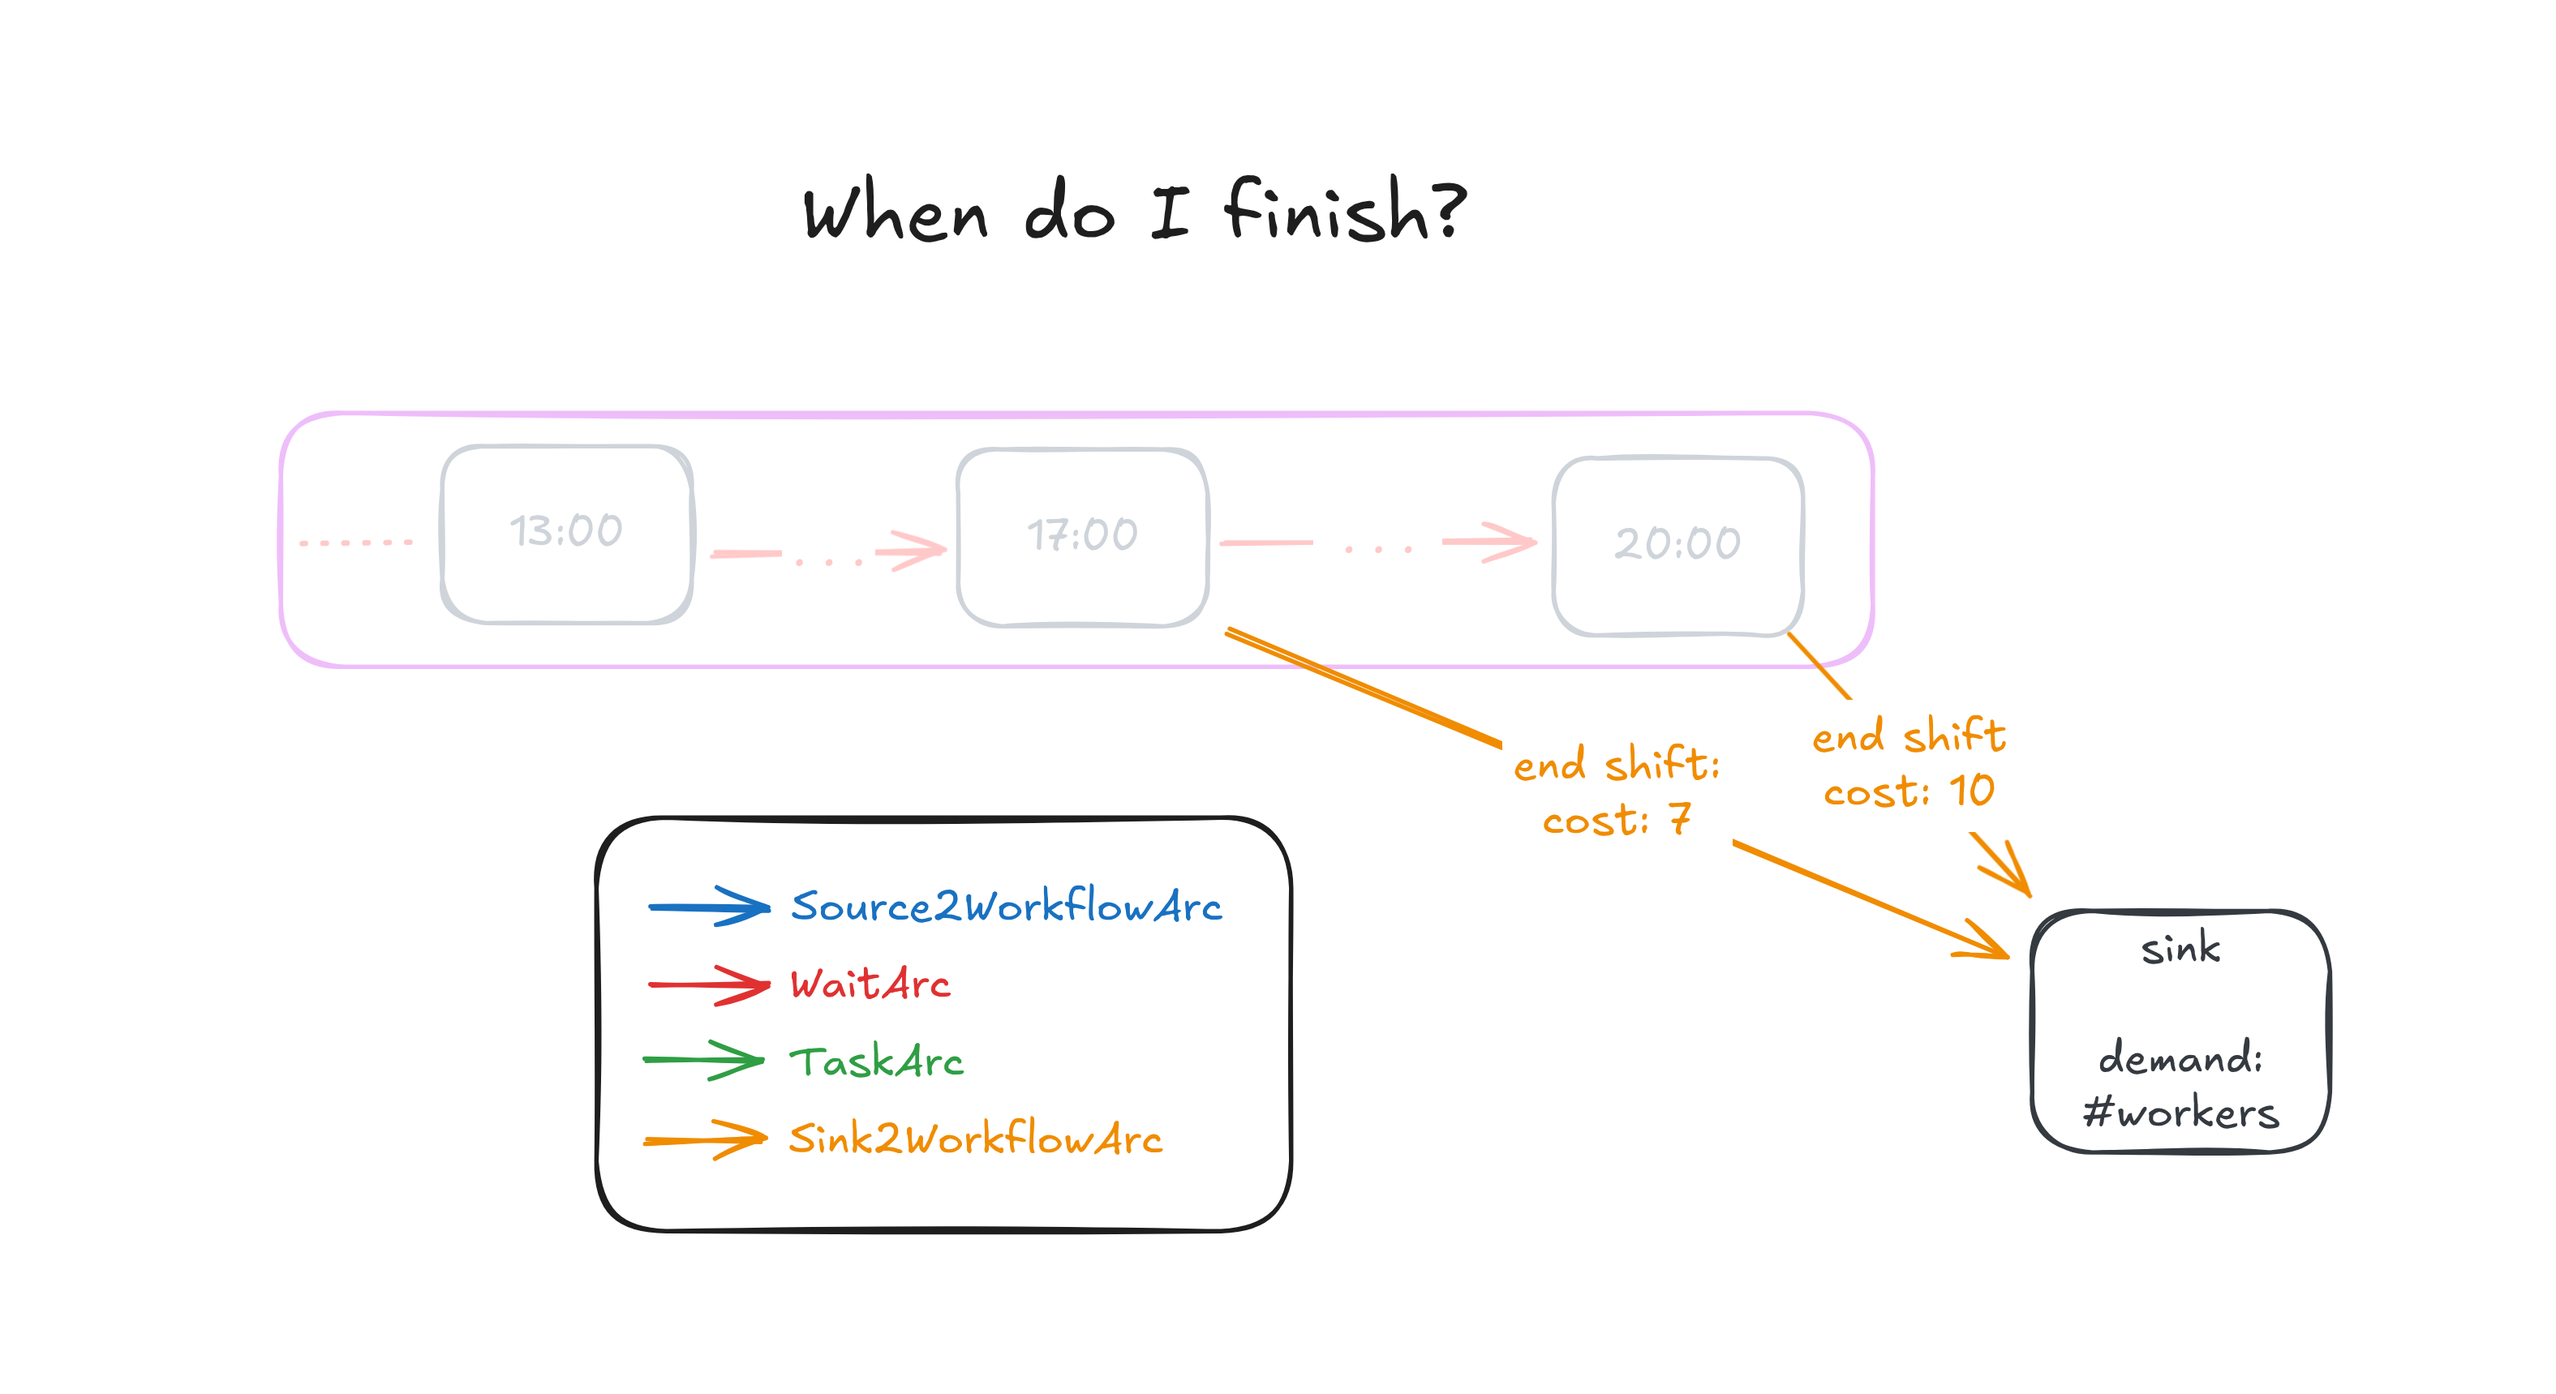
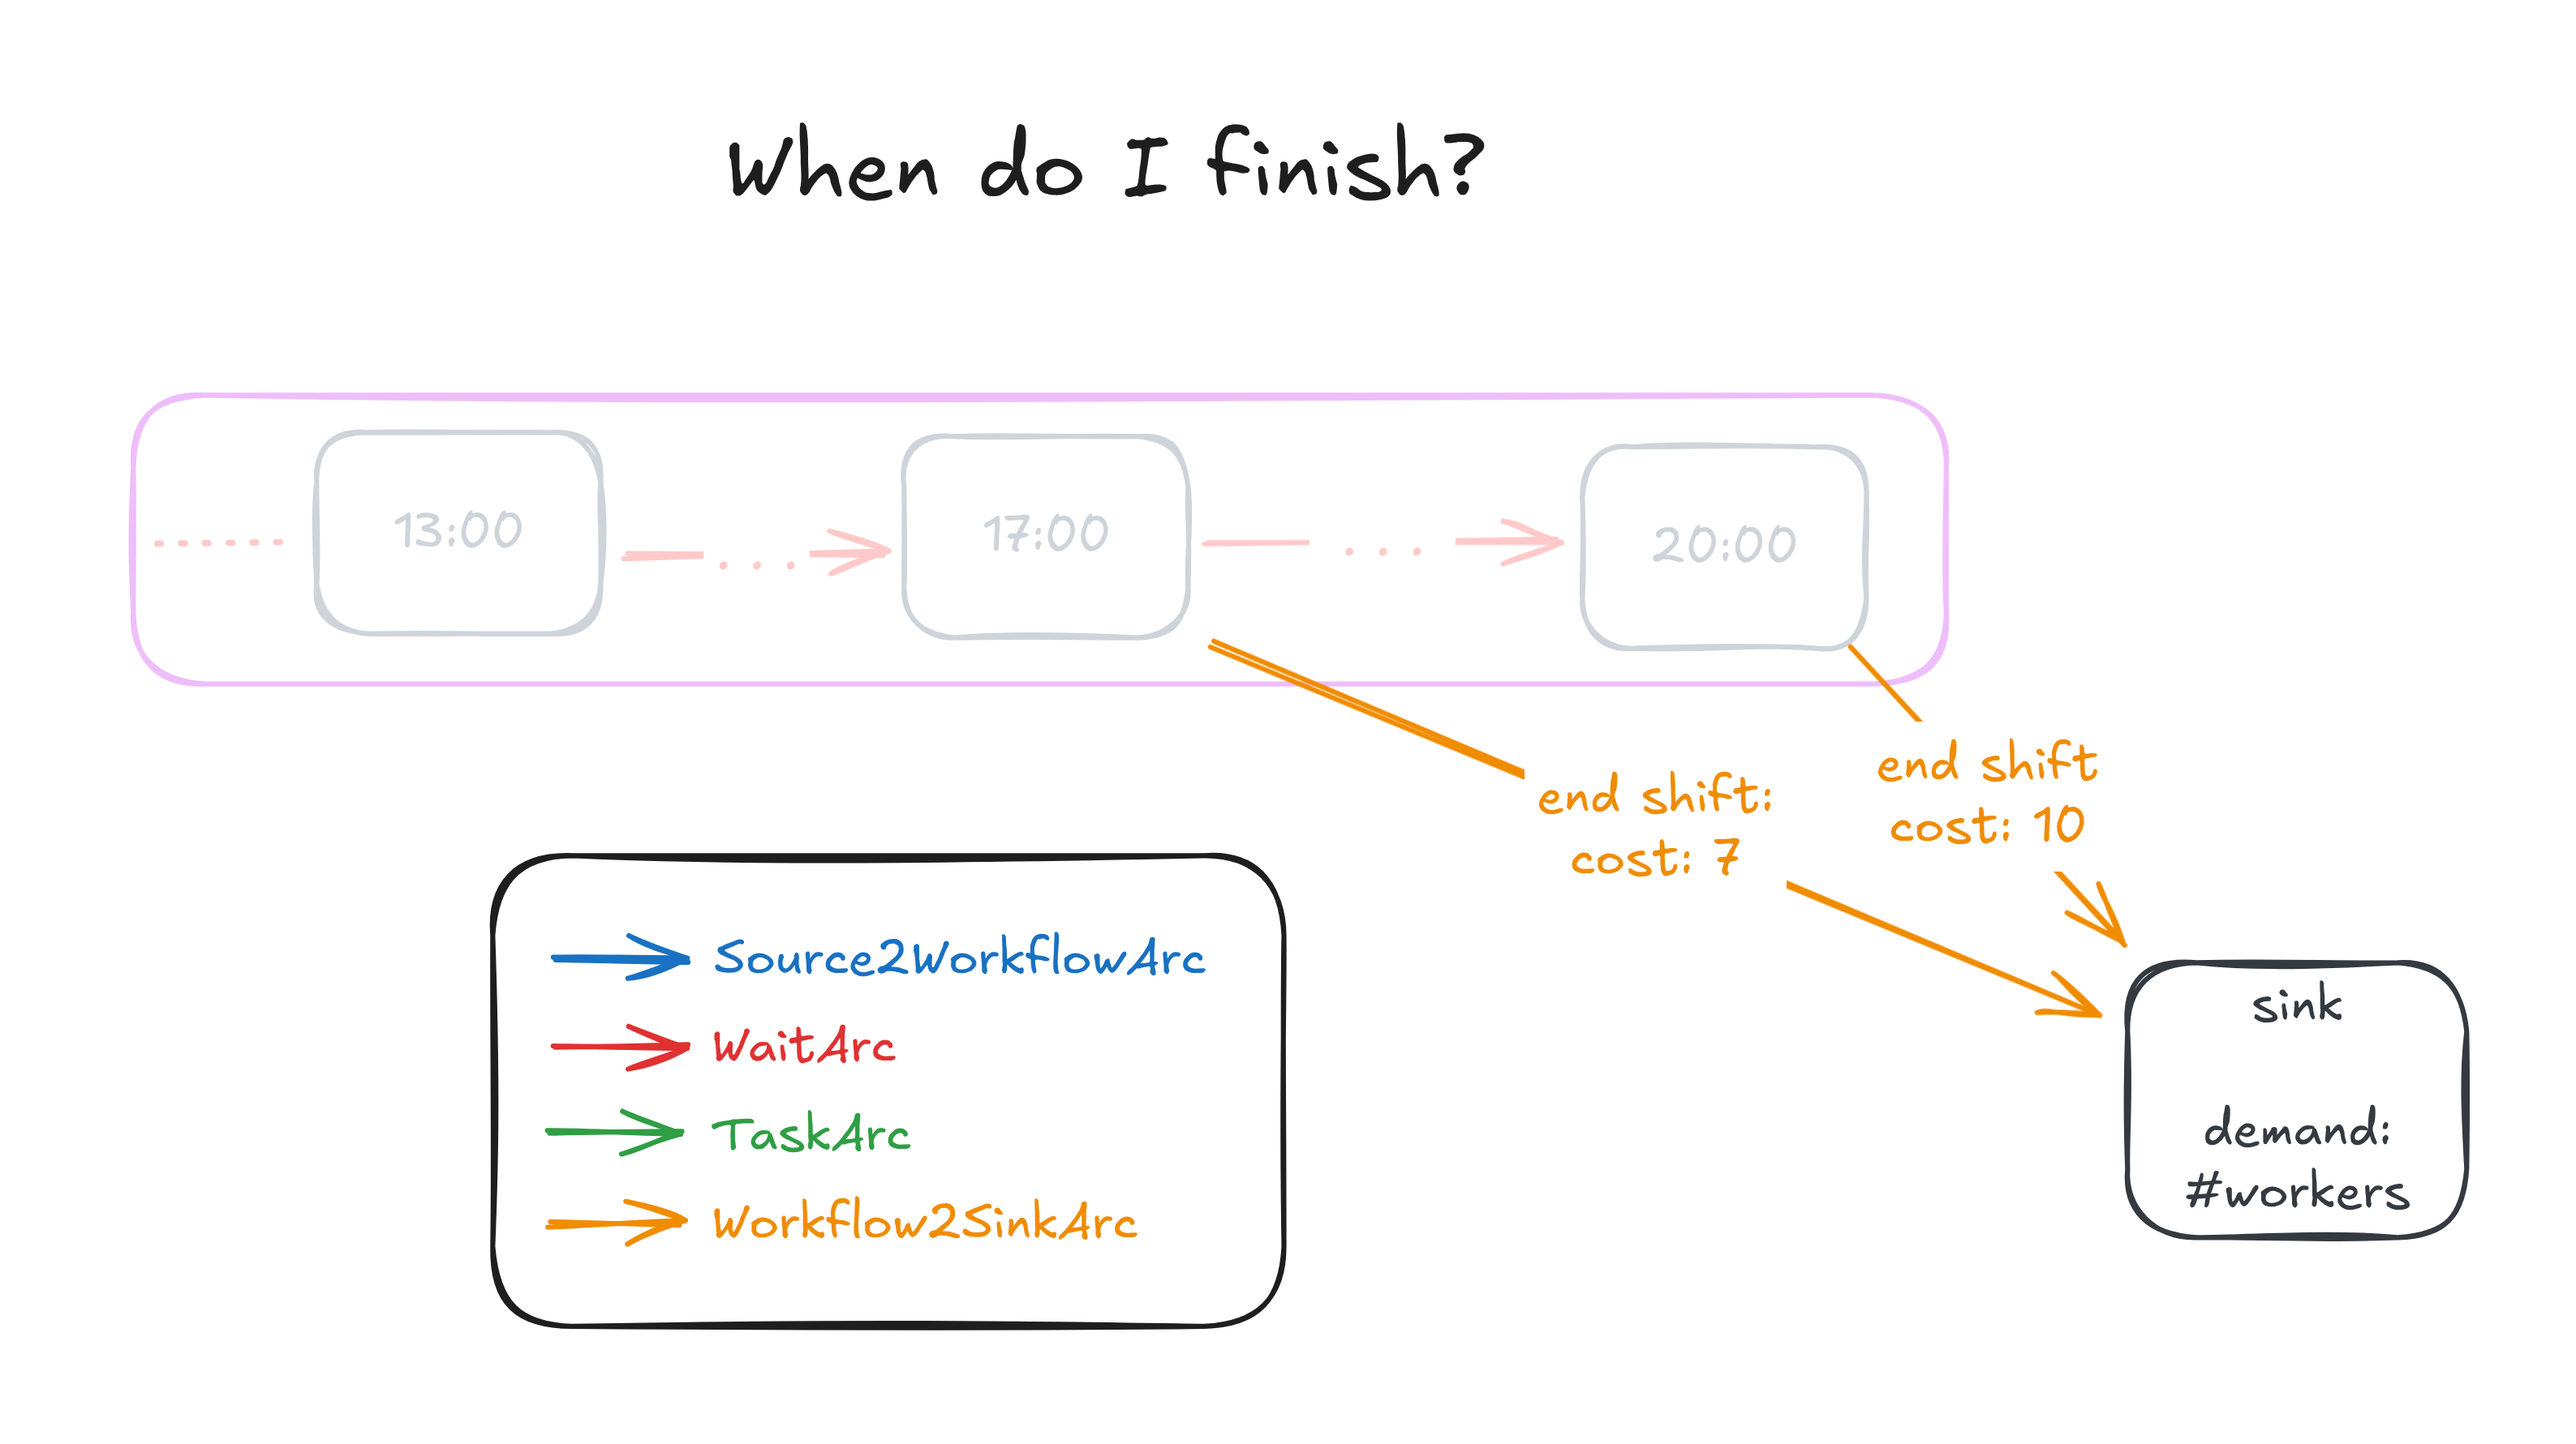
fixed some issues

diff --git a/slides.md b/slides.md
@@ -201,7 +201,7 @@ Total cost: 7 + 10 + 0 = 17
 # Breakout Session #1
 Your turn!
 
-Formulate a the problem as a MIP. How to model:
+Formulate the problem as a MIP. How to model:
 
 - Assignment of tasks to workers?
 - Overlap of tasks not allowed?
@@ -221,18 +221,55 @@ Chapter 2
 
 
 ---
+layout: two-cols-header
+---
 
 # Assignment Problem Formulation
 We have our input:
+::left::
+
+<v-click>
+
 - number of workers $N$, 
 - $K$ tasks with start and end time each, 
 - $D_{min}$, 
 - $D_{max}$
 
+</v-click>
+
+<v-click at="+2">
+
 We need:
 - Variables
 - Constraints
 - Objective Function
+
+</v-click>
+
+::right::
+
+
+<v-click at="-1" >
+
+```python
+class Task(BaseModel, frozen=True):
+    """Represents a task with an id, start time and end time."""
+    id: int
+    start: int
+    end: int
+
+
+class Problem(BaseModel):
+    """Represents the problem instance."""
+    tasks: list[Task] = Field(description="tasks to be assigned to workers")
+    N: int = Field(description="Number of workers N", ge=1)
+    D_min: int = Field(description="Minimum shift length", ge=0)
+    D_max: int = Field(description="Maximum shift length", ge=0)
+```
+
+
+</v-click>
+
 
 ---
 
@@ -766,7 +803,7 @@ $$x_{i,j_1} + x_{i,j_2} \leq 1 \quad \forall i, \forall \text{ overlapping } (j_
 
 **Better:** For each hour, at most one task active at that hour can be assigned to a worker.
 
-$$\sum_{j \text{ active at hour } h} x_{i,j} \leq 1 \quad \forall i, \forall h \in [0, 23]$$
+$$\sum_{j \text{ active at hour } h} x_{i,j} \leq 1 \quad \forall i, \forall h \in \mathbb{N}_{<24}$$
 
 </v-click>
 
@@ -775,8 +812,8 @@ $$\sum_{j \text{ active at hour } h} x_{i,j} \leq 1 \quad \forall i, \forall h \
 ### Two big wins:
 1. Formulation just got tighter!
 2. Huge reduction in number of constraints:
-    - Number of old overlapping constraints scaled at $O(K²)$.
-    - New variant: constant $24$.
+    - Number of old overlapping constraints scaled at $O(N\cdot K²)$.
+    - New variant: $24$ per worker: $O(N)$.
 
 <v-click>
 
@@ -815,7 +852,7 @@ For instance (25,10), a single solution can have up to $10!$ duplicate solutions
 Order workers by shift start time (or some other criterion).
 New constraint:
 
-$$s_{i-1}  \leq s_i \quad \forall i > 1$$
+$$s_{i-1}  \leq s_i \quad \forall i > 0$$
 
 
 </v-click>
@@ -826,7 +863,7 @@ $$s_{i-1}  \leq s_i \quad \forall i > 1$$
 ```python
     @m.Constraint(m.workers)
     def symmetry_breaker(m, i):
-        if i == 1:
+        if i == 0:
             return pyo.Constraint.Skip
         return m.s[i - 1] <= m.s[i]
 ```
@@ -1069,7 +1106,7 @@ layoutClass: gap-16
 
 | Model | Variables | Constraints |
 |---------|-------------|---------------|
-| Simple | $O(N \cdot K)$ | $O(N \cdot K +  K^2)$ |
+| Simple | $O(N \cdot K)$ | $O(N \cdot K^2)$ |
 | Improved | $O(N \cdot K)$ | $O(N \cdot K)$ |
 | Flow | $O(D_{max} \cdot K)$ | $O(D_{max} \cdot K)$ |
 
